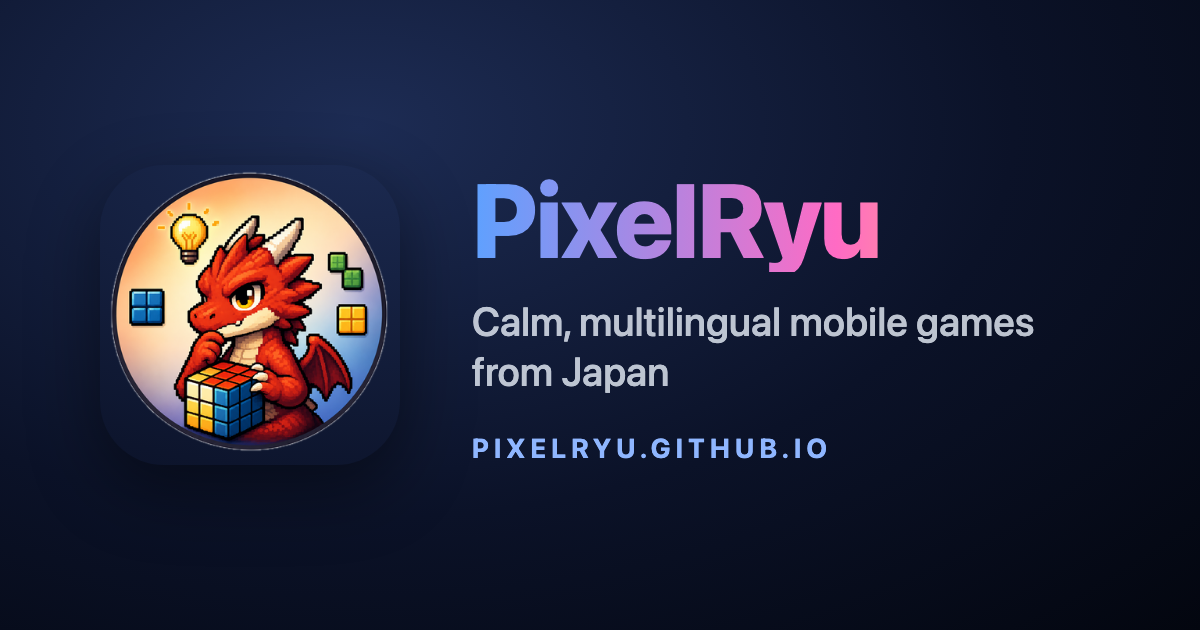
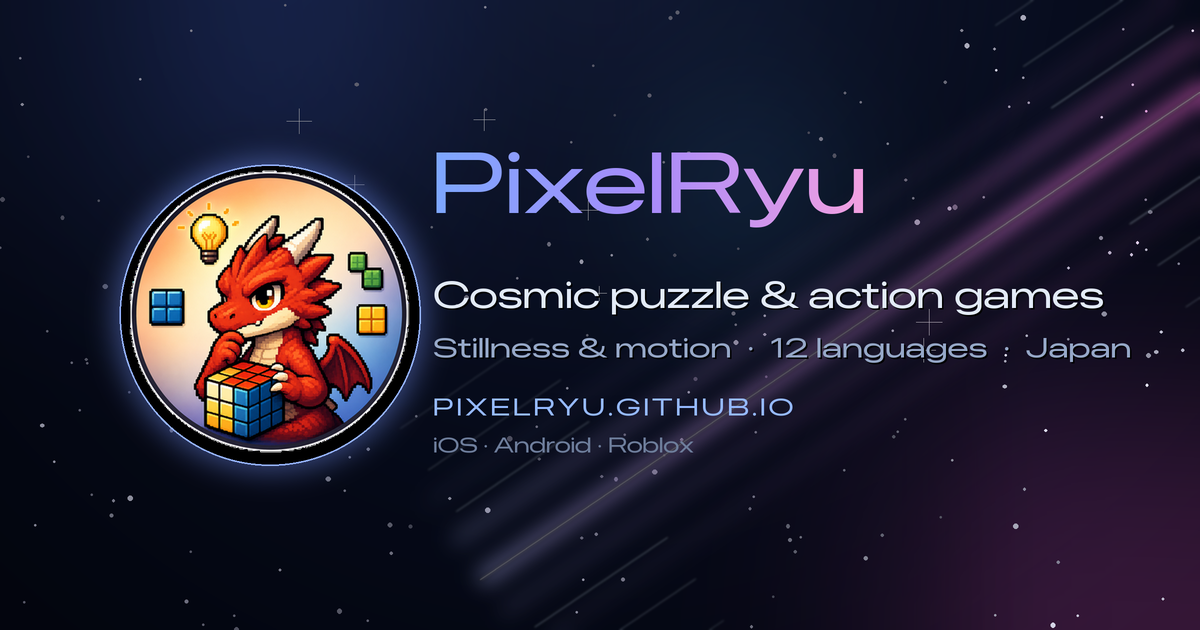
[改善] OGシェア画像を刷新（静=宇宙×動=刀閃／SEOコピー）＋alt更新
- og.png を再デザイン: 宇宙グラデ＋星＋ネビュラ発光(静)に、斜めの刀閃＋スピードライン(動)を重ね、静と動を一枚で対比
- ドラゴンアイコン／PixelRyu グラデーションロゴは据え置きでブランド維持
- カードコピーを SEO 強化: 「Cosmic puzzle & action games」「Stillness & motion · 12 languages · Japan」＋URL／対応プラットフォーム
- og:image:alt / twitter:image:alt をパズル＆アクション訴求に更新
- 画像差し替えに伴い og:image / twitter:image にキャッシュバスティング(?v=20260606192649)を付与

diff --git a/index.html b/index.html
@@ -268,10 +268,10 @@
 <meta property="og:title" content="PixelRyu — Cosmic puzzle &amp; action games">
 <meta property="og:description" content="PixelRyu makes calm, beautiful, multilingual mobile games for Android and iOS.">
 <meta property="og:url" content="https://pixelryu.github.io/">
-<meta property="og:image" content="https://pixelryu.github.io/og.png">
+<meta property="og:image" content="https://pixelryu.github.io/og.png?v=20260606192649">
 <meta property="og:image:width" content="1200">
 <meta property="og:image:height" content="630">
-<meta property="og:image:alt" content="PixelRyu — calm, multilingual mobile games from Japan">
+<meta property="og:image:alt" content="PixelRyu — cosmic puzzle & action games; stillness and motion, 12 languages, from Japan">
 <meta property="og:locale" content="en_US">
 <meta property="og:locale:alternate" content="ja_JP">
 <meta property="og:locale:alternate" content="zh_CN">
@@ -287,8 +287,8 @@
 <meta name="twitter:card" content="summary_large_image">
 <meta name="twitter:title" content="PixelRyu — Cosmic puzzle &amp; action games">
 <meta name="twitter:description" content="PixelRyu makes calm, beautiful, multilingual mobile games for Android and iOS.">
-<meta name="twitter:image" content="https://pixelryu.github.io/og.png">
-<meta name="twitter:image:alt" content="PixelRyu — calm, multilingual mobile games from Japan">
+<meta name="twitter:image" content="https://pixelryu.github.io/og.png?v=20260606192649">
+<meta name="twitter:image:alt" content="PixelRyu — cosmic puzzle & action games; stillness and motion, 12 languages, from Japan">
 <script type="application/ld+json">{"@context":"https://schema.org","@type":"Organization","name":"PixelRyu","url":"https://pixelryu.github.io/","logo":"https://pixelryu.github.io/icon.png","description":"PixelRyu is a solo indie game studio from Japan making small, polished, fully multilingual mobile games for Android and iOS.","foundingLocation":{"@type":"Country","name":"Japan"},"sameAs":["https://substack.com/@pixelryu","https://note.com/pixelryu","https://www.youtube.com/@PixelRyu-Japan","https://x.com/PixelRyu10752","https://www.instagram.com/pixelryu/","https://www.facebook.com/PixelRyuJapan","https://www.tiktok.com/@pixelryu_japan","https://www.threads.com/@pixelryu"]}</script>
 <script type="application/ld+json">{"@context":"https://schema.org","@type":"WebSite","name":"PixelRyu","url":"https://pixelryu.github.io/","inLanguage":["en","ja","zh","ko","hi","id","de","fr","it","es","pt","ru"],"publisher":{"@type":"Organization","name":"PixelRyu","url":"https://pixelryu.github.io/"}}</script>
 <!-- SEO/LLMO end -->
